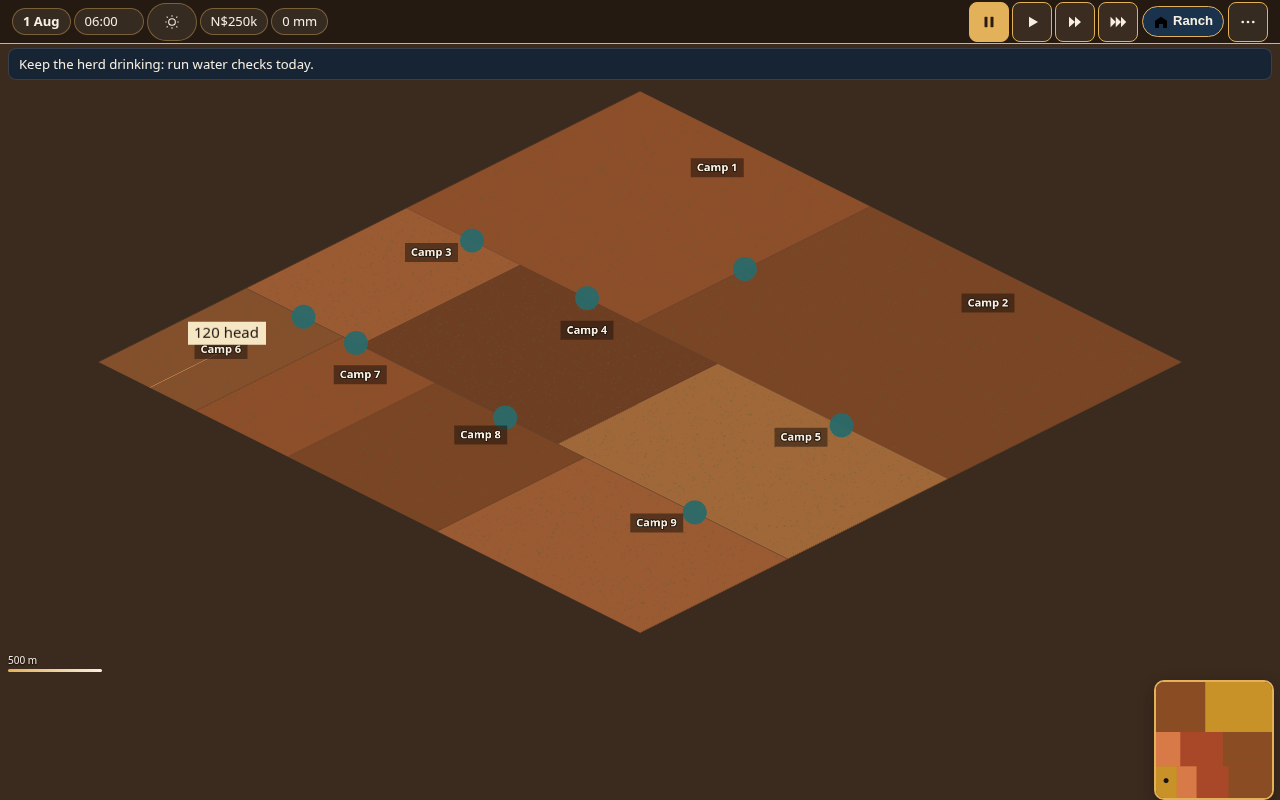
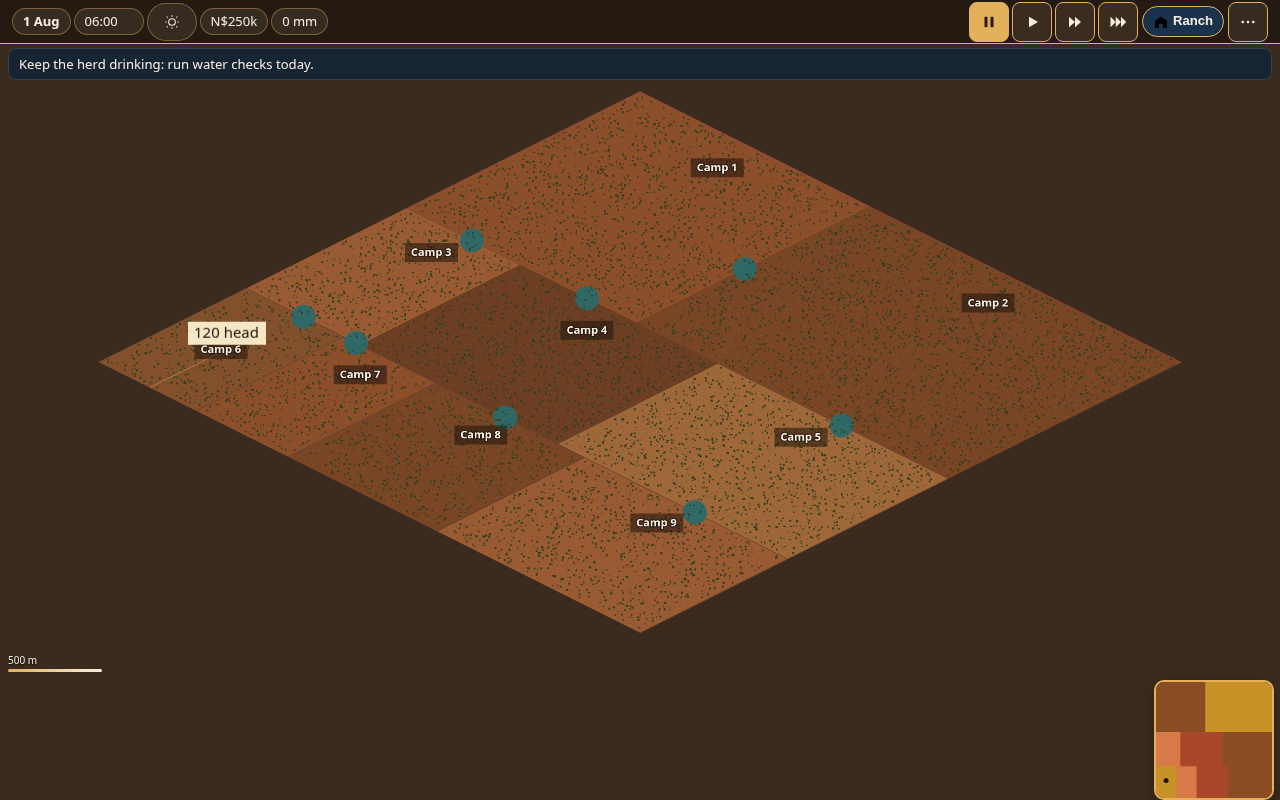
Keep a dark olive speck on the whole-farm map
Far zoom had shrunk every crown below a pixel, so the camps went flat brown. Big trees now hold at about 2 px and smaller trees at about 1 px, while closer zooms keep the crowns already approved.

diff --git a/src/render/treeLod.ts b/src/render/treeLod.ts
@@ -63,8 +63,20 @@ const CROWN_WIDTH_M = {
 const CROWN_HEIGHT_OF_WIDTH = 0.58;
 
 const MIN_ZOOM = 0.0002;
-/** Below this on-screen width a mark is just a green tint. Big trees can still get a floor. */
+/** Below this on-screen width a bush is just a tint, so it stays off the map. */
 const MIN_MARK_SCREEN_PX = 1.15;
+/**
+ * Whole-farm specks. Big trees stay in the 1.5–2 px range on a desktop map.
+ * The cap is a fraction of the on-screen gap, so a phone's smaller map does
+ * not turn the same dots into a solid green sheet.
+ */
+const LARGE_SPECK_PX = 1.85;
+const SMALL_SPECK_PX = 1.05;
+const SPECK_STYLE: Record<"large" | "small" | "shepherd", { fill: number; alpha: number }> = {
+  large: { fill: 0x31401f, alpha: 0.94 },
+  small: { fill: 0x5a6048, alpha: 0.52 },
+  shepherd: { fill: 0x5c5e50, alpha: 0.48 },
+};
 
 export type TreeLodMode = "sprites" | "dots";
 export type TreeLodRect = { minX: number; minY: number; maxX: number; maxY: number };
@@ -81,6 +93,8 @@ export type CanopyMark = {
   /** Muted olive or grey-green. `shade` is the darker body, `fill` the lit top. */
   shade: number;
   fill: number;
+  /** A round dark speck. Used once a shaded crown would be only a couple of pixels. */
+  speck: boolean;
 };
 
 const STYLE: Record<VegSpecies, { shade: number; fill: number; alpha: number }> = {
@@ -127,26 +141,37 @@ function safeZoom(zoom: number): number {
   return Math.max(Number.isFinite(zoom) && zoom > 0 ? zoom : MIN_ZOOM, MIN_ZOOM);
 }
 
+/** On-screen gap between trunks, from the iso scale of one metre. */
+export function canopyScreenGap(zoom: number): number {
+  return TREE_SPACING_M * (PIXELS_PER_METRE / 2) * safeZoom(zoom);
+}
+
+/** Minimum on-screen width. Zero for bushes, which are not inflated. */
+export function speckFloorPx(species: VegSpecies, zoom: number): number {
+  const gap = canopyScreenGap(zoom);
+  if (species === "large") return Math.min(LARGE_SPECK_PX, gap * 0.58);
+  if (species === "small" || species === "shepherd") return Math.min(SMALL_SPECK_PX, gap * 0.34);
+  return 0;
+}
+
 /**
- * World-pixel width of one crown. Big trees keep a speck on the whole-farm
- * map. Small trees and bushes are not inflated, or the sand turns green.
+ * World-pixel width of one crown. Above a couple of pixels this is the
+ * painted crown. Below that, big trees hold at about 2 px and smaller trees
+ * at about 1 px, so the whole-farm map keeps a scatter instead of going bare.
  */
 export function canopyWidthPx(species: VegSpecies, scale: number, zoom: number): number {
   const jitter = Number.isFinite(scale) && scale > 0 ? scale : 1;
   const natural = CROWN_WIDTH_M[species] * jitter * PIXELS_PER_METRE;
-  if (species !== "large") return natural;
+  const floor = speckFloorPx(species, zoom) * jitter;
   const z = safeZoom(zoom);
-  const gap = TREE_SPACING_M * Math.sqrt(3) * PIXELS_PER_METRE * z;
-  const floor = Math.min(1.4, Math.max(0.85, gap * 0.36));
-  const screen = natural * z;
-  if (screen >= floor) return natural;
+  if (floor <= 0 || natural * z >= floor) return natural;
   return floor / z;
 }
 
 export function canopyDrawn(species: VegSpecies, scale: number, zoom: number): boolean {
-  const width = canopyWidthPx(species, scale, zoom);
-  if (species === "large") return width * safeZoom(zoom) >= 0.85;
-  return width * safeZoom(zoom) >= MIN_MARK_SCREEN_PX;
+  if (speckFloorPx(species, zoom) > 0.35) return true;
+  const jitter = Number.isFinite(scale) && scale > 0 ? scale : 1;
+  return CROWN_WIDTH_M[species] * jitter * PIXELS_PER_METRE * safeZoom(zoom) >= MIN_MARK_SCREEN_PX;
 }
 
 function markFor(
@@ -160,16 +185,19 @@ function markFor(
   const drawn = canopyDrawn(species, scale, zoom);
   const width = drawn ? canopyWidthPx(species, scale, zoom) : 0;
   const screen = width * safeZoom(zoom);
-  const alpha = screen > 0 && screen < 2.4 ? style.alpha * 0.62 : style.alpha;
+  const dot = species === "large" || species === "small" || species === "shepherd" ? SPECK_STYLE[species] : null;
+  const speck = Boolean(dot) && screen < 2.55;
+  const ink = speck && dot ? dot : null;
   return {
     x,
     y,
     species,
     width,
-    height: width * CROWN_HEIGHT_OF_WIDTH,
-    alpha,
-    shade: style.shade,
-    fill: style.fill,
+    height: speck ? width : width * CROWN_HEIGHT_OF_WIDTH,
+    alpha: ink ? ink.alpha : style.alpha,
+    shade: ink ? ink.fill : style.shade,
+    fill: ink ? ink.fill : style.fill,
+    speck,
   };
 }
 
@@ -186,6 +214,16 @@ export function bushCanopyMarks(
   zoom: number,
 ): CanopyMark[] {
   return bushes.map((bush) => markFor(bushSpeciesAt(bush.x, bush.y), bush.x, bush.y, bush.scale, zoom));
+}
+
+/**
+ * Finer step once crowns are clamped to a screen size. The world size of
+ * that clamp depends on zoom, so a wide band would bake the wrong speck.
+ */
+export function canopySizeBucket(zoom: number): number {
+  const z = safeZoom(zoom);
+  if (z >= 0.018) return 0;
+  return Math.max(1, Math.round(-Math.log(z) / Math.log(1.12)));
 }
 
 /** Coarse zoom bucket. A baked texture is rebuilt when the bucket changes. */

diff --git a/src/render/FarmScene.ts b/src/render/FarmScene.ts
@@ -100,6 +100,7 @@ import {
   TREE_SPRITE_ZOOM,
   bushCanopyMarks,
   canopyCss,
+  canopySizeBucket,
   canopyTextureSize,
   canopyZoomBand,
   clampTreeLodRect,
@@ -256,7 +257,7 @@ export class FarmScene extends Phaser.Scene {
   private vegDots: Phaser.GameObjects.Graphics | null = null;
   private vegLodImage: Phaser.GameObjects.Image | null = null;
   private vegLodSerial = 0;
-  private vegCover: (TreeLodRect & { radius: number; band: string }) | null = null;
+  private vegCover: (TreeLodRect & { band: string; bucket: number }) | null = null;
   private vegKey = "";
   private hud!: Hud;
   private market!: MarketSheet;
@@ -1964,7 +1965,8 @@ export class FarmScene extends Phaser.Scene {
       this.vegKey = "";
     }
     const band = canopyZoomBand(zoom);
-    if (this.vegCover && this.vegCover.band === band && treeLodRectCovers(this.vegCover, bounds)) {
+    const bucket = canopySizeBucket(zoom);
+    if (this.vegCover && this.vegCover.band === band && this.vegCover.bucket === bucket && treeLodRectCovers(this.vegCover, bounds)) {
       return;
     }
     const padded = clampTreeLodRect(padTreeLodRect(bounds), this.state.width, this.state.height);
@@ -1980,7 +1982,7 @@ export class FarmScene extends Phaser.Scene {
     this.releaseVegSprites();
     const drawn = marks.reduce((count, mark) => count + (mark.width > 0 ? 1 : 0), 0);
     const baked = drawn > TREE_DOT_GRAPHICS_MAX ? this.bakeCanopyTexture(padded, marks) : this.bakeCanopyGraphics(marks);
-    if (baked) this.vegCover = { ...padded, radius: 0, band };
+    if (baked) this.vegCover = { ...padded, band, bucket };
   }
 
   private hideCanopyLod(): void {
@@ -2073,6 +2075,11 @@ export class FarmScene extends Phaser.Scene {
     const graphics = this.vegDots;
     graphics.clear();
     for (const { mark, x, y } of this.placeCanopyMarks(marks)) {
+      if (mark.speck) {
+        graphics.fillStyle(mark.fill, mark.alpha);
+        graphics.fillCircle(x, y, mark.width / 2);
+        continue;
+      }
       const shadowW = mark.width * 1.05;
       const shadowH = Math.max(1.5, mark.height * 0.42);
       graphics.fillStyle(CANOPY_SHADOW, mark.alpha * 0.34);
@@ -2120,14 +2127,20 @@ export class FarmScene extends Phaser.Scene {
     const ellipse = (x: number, y: number, w: number, h: number, colour: number, alpha: number) => {
       const rx = (w * size.scale) / 2;
       const ry = (h * size.scale) / 2;
-      if (rx < 0.35 || ry < 0.22 || alpha <= 0) return;
+      if (rx < 0.45 || ry < 0.45 || alpha <= 0) return;
       ctx.fillStyle = canopyCss(colour);
       ctx.globalAlpha = alpha;
       ctx.beginPath();
       ctx.ellipse((x - minWX) * size.scale, (y - minWY) * size.scale, rx, ry, 0, 0, Math.PI * 2);
       ctx.fill();
     };
+    let speckCount = 0;
     for (const { mark, x, y } of placed) {
+      if (mark.speck) {
+        speckCount += 1;
+        ellipse(x, y, mark.width, mark.height, mark.fill, mark.alpha);
+        continue;
+      }
       const shadowW = mark.width * 1.05;
       const shadowH = Math.max(1.5, mark.height * 0.42);
       ellipse(x + mark.width * 0.08, y + shadowH * 0.2, shadowW, shadowH, CANOPY_SHADOW, mark.alpha * 0.34);
@@ -2139,7 +2152,8 @@ export class FarmScene extends Phaser.Scene {
     const key = `${CANOPY_TEXTURE_KEY}-${this.vegLodSerial}`;
     this.vegLodSerial += 1;
     this.textures.addCanvas(key, canvas);
-    this.textures.get(key).setFilter(Phaser.Textures.FilterMode.LINEAR);
+    const speckTexture = placed.length > 0 && speckCount > placed.length * 0.6;
+    this.textures.get(key).setFilter(speckTexture ? Phaser.Textures.FilterMode.NEAREST : Phaser.Textures.FilterMode.LINEAR);
     const previous = this.vegLodImage?.texture.key;
     const worldW = Math.max(1, maxWX - minWX);
     const worldH = Math.max(1, maxWY - minWY);

diff --git a/src/render/treeLod.test.ts b/src/render/treeLod.test.ts
@@ -51,16 +51,29 @@ describe("tree LOD visibility per zoom", () => {
     expect(large[0].shade).not.toBe(large[0].fill);
     expect(canopyWidthPx("large", 1.15, 0.2)).toBeGreaterThan(canopyWidthPx("large", 0.85, 0.2));
 
-    const far = treeCanopyMarks(sample, 0.012).filter((mark) => mark.width > 0);
-    expect(far.length).toBeGreaterThan(0);
-    expect(far.length).toBeLessThan(sample.length / 2);
-    expect(far.every((mark) => mark.species === "large")).toBe(true);
+    const zoom008 = canopyWidthPx("large", 1, 0.08) * 0.08;
+    const zoom004 = canopyWidthPx("large", 1, 0.04) * 0.04;
+    expect(zoom008).toBeGreaterThan(8);
+    expect(zoom004).toBeGreaterThan(4);
+    expect(zoom008).toBeCloseTo(zoom004 * 2, 0);
+    expect(canopyWidthPx("small", 1, 0.08)).toBeGreaterThan(0);
+    expect(canopyWidthPx("small", 1, 0.04)).toBeGreaterThan(0);
 
-    const phone = treeCanopyMarks(sample, 0.004);
-    const phoneDrawn = phone.filter((mark) => mark.width > 0);
-    expect(phoneDrawn.every((mark) => mark.species === "large")).toBe(true);
-    expect(phoneDrawn[0].width * 0.004).toBeGreaterThan(0.8);
-    expect(phoneDrawn[0].width * 0.004).toBeLessThan(1.5);
+    const farZoom = 0.0114;
+    const farLarge = canopyWidthPx("large", 1, farZoom) * farZoom;
+    const farSmall = canopyWidthPx("small", 1, farZoom) * farZoom;
+    expect(farLarge).toBeGreaterThan(1.5);
+    expect(farLarge).toBeLessThanOrEqual(2.05);
+    expect(farSmall).toBeGreaterThan(0.85);
+    expect(farSmall).toBeLessThan(1.25);
+    const far = treeCanopyMarks(sample, farZoom).filter((mark) => mark.width > 0);
+    expect(far.length).toBe(sample.length);
+    const farBig = far.filter((mark) => mark.species === "large");
+    const farLittle = far.filter((mark) => mark.species !== "large");
+    expect(farBig.length).toBeGreaterThan(0);
+    expect(farLittle.length).toBeGreaterThan(0);
+    expect(farBig[0].speck).toBe(true);
+    expect(farBig[0].alpha).toBeGreaterThan(farLittle[0].alpha);
     expect(treeLodMode(0.01, 20)).toBe("dots");
     expect(treeLodMode(0.22, TREE_SPRITE_BUDGET + 1)).toBe("dots");
   });
@@ -82,9 +95,13 @@ describe("tree LOD visibility per zoom", () => {
     const marks = treeCanopyMarks(all, 0.01);
     expect(marks).toHaveLength(all.length);
     const drawn = marks.filter((mark) => mark.width > 0);
-    expect(drawn.length).toBeGreaterThan(100);
-    expect(drawn.length).toBeLessThan(all.length * 0.5);
-    expect(drawn.every((mark) => mark.species === "large")).toBe(true);
+    expect(drawn.length).toBe(all.length);
+    const gap = 34 * (PIXELS_PER_METRE / 2) * 0.01;
+    let area = 0;
+    for (const mark of drawn) area += Math.PI * ((mark.width * 0.01) / 2) * ((mark.height * 0.01) / 2);
+    const coverage = area / (drawn.length * gap * gap);
+    expect(coverage).toBeGreaterThan(0.08);
+    expect(coverage).toBeLessThan(0.22);
     expect(treeLodMode(0.9, sample.length)).toBe("sprites");
   });
 });
